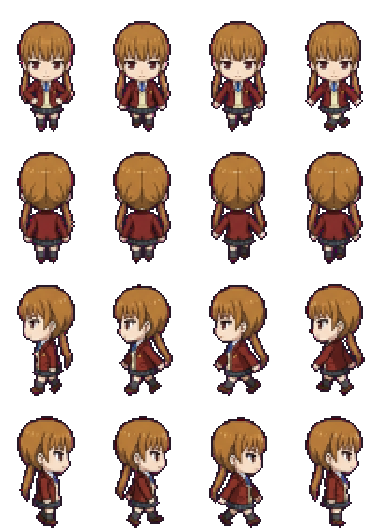
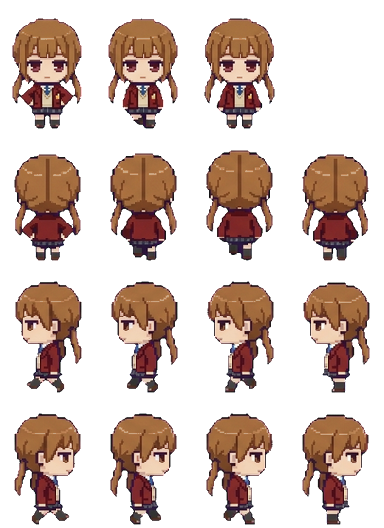
Redraw Mizutani Shizuku in the shared art style
Claude-Session: https://claude.ai/code/session_01KaPsBYLrtbRfMYNG2xeBCK

diff --git a/docs/app.js b/docs/app.js
@@ -75,7 +75,7 @@ function spr(cat, k, col, sc) {
   return `<div class="clip" style="width:${it[2] * sc}px;height:${it[3] * sc}px;POS"><img class="px" src="assets/decor/${cat}.png" alt="" style="width:${S.sw * sc}px;height:${S.sh * sc}px;margin-left:${-col * S.cw * sc}px;margin-top:${-i * S.ch * sc}px"></div>`;
 }
 const icon = (k, sz) => `<span class="itm" style="width:${sz}px;height:${sz}px"><img class="px" src="assets/ui/items.png" alt="" style="width:${IT.length * sz}px;height:${sz}px;margin-left:${-ITM[k].i * sz}px"></span>`;
-const face = (id, w) => { const s = w / 96; return `<img class="px" src="assets/ch/${id}.webp?v=66" alt="" style="position:absolute;width:${384 * s}px;height:${528 * s}px;left:${-(96 * s - w) / 2}px;top:0;max-width:none">`; };
+const face = (id, w) => { const s = w / 96; return `<img class="px" src="assets/ch/${id}.webp?v=67" alt="" style="position:absolute;width:${384 * s}px;height:${528 * s}px;left:${-(96 * s - w) / 2}px;top:0;max-width:none">`; };
 
 // ---------- 저장 ----------
 let fb = null, user = null, S = null, saveT = null;
@@ -143,7 +143,7 @@ function sleepHTML(id, r, dy) {
   const pos = r.a && r.a[0] === 'bed' ? 'left:3%;bottom:20%' : r.b && r.b[0] === 'bed' ? 'right:3%;bottom:20%' : 'left:calc(50% - 44px);bottom:6%';
   const s = 36 / 96;
   return `<div style="position:absolute;width:88px;height:56px;${pos};z-index:${dy ? 4 : 5};${dy ? `transform:translate(12px,${dy}px)` : ''}"><div style="position:absolute;inset:0;filter:brightness(.22)">
-    <div style="position:absolute;left:11px;top:1px;width:36px;height:50px;overflow:hidden;transform:rotate(-90deg)"><img class="px" src="assets/ch/${id}.webp?v=66" alt="" style="width:${384 * s}px;height:${528 * s}px;max-width:none;margin-top:${-132 * s}px"></div>
+    <div style="position:absolute;left:11px;top:1px;width:36px;height:50px;overflow:hidden;transform:rotate(-90deg)"><img class="px" src="assets/ch/${id}.webp?v=67" alt="" style="width:${384 * s}px;height:${528 * s}px;max-width:none;margin-top:${-132 * s}px"></div>
     <div style="position:absolute;left:19px;top:19px;width:67px;height:29px;border:2px solid var(--ink);border-radius:8px 6px 4px 4px;background:#8ccff5;background-image:repeating-linear-gradient(90deg,transparent 0 10px,rgba(255,255,255,.5) 10px 13px)"></div></div>
     ${dy ? '' : '<span class="emo" style="left:8px;top:-22px;color:#5b6bd6">Z z z</span>'}</div>`;
 }
@@ -153,8 +153,8 @@ function roomHTML(id, o, scale) {
     <div class="floor" style="background-color:${PAL[r.fc][1]};background-image:${tileUrl('floor', r.fl)}"></div>
     ${slot('deco', r.dc, 'left:6%;top:6%')}${slot('furn', r.a, 'left:3%;bottom:20%')}${slot('furn', r.b, 'right:3%;bottom:20%')}${slot('prop', r.pr, 'left:28%;bottom:4%;z-index:2')}
     ${id && o.sleeping && g ? sleepHTML(g, r, -16) : ''}${id && o.sleeping ? sleepHTML(id, r) : ''}${id && o.job ? `<div style="position:absolute;left:50%;top:38%;transform:translateX(-50%);z-index:5;background:#fff;border:3px solid var(--ink);border-radius:10px;padding:6px 10px;font-size:11px;text-align:center;line-height:1.5"><img src="assets/ui/ic_job.png" alt="" style="width:18px;vertical-align:-4px"> ${WORK[id] ? WORK[id][1] : esc(JOB_NAME[id]) + ' 알바 중'}${g ? `<br><small>${esc(nameOf(g))}도 같이</small>` : ''}<br><b id="jobleft">${timeLeft(o.job.until)}</b></div>` : ''}
-    ${id ? `<div class="shadow" id="shd" ${o.sleeping || o.job ? 'style="display:none"' : ''}></div><div class="man" id="man" ${o.sleeping || o.job ? 'style="display:none"' : ''}><img class="px" src="assets/ch/${id}.webp?v=66" alt="${esc(nameOf(id))}"></div><span class="emo" id="emo" hidden></span><span class="mumble" id="mum" hidden></span>` : ''}
-    ${g ? `<div class="shadow" id="gshd" ${hideG}></div><div class="man" id="gman" ${hideG}><img class="px" src="assets/ch/${g}.webp?v=66" alt="${esc(nameOf(g))}"></div><span class="emo" id="gemo" hidden></span><span class="mumble gmum" id="gmum" hidden></span>` : ''}
+    ${id ? `<div class="shadow" id="shd" ${o.sleeping || o.job ? 'style="display:none"' : ''}></div><div class="man" id="man" ${o.sleeping || o.job ? 'style="display:none"' : ''}><img class="px" src="assets/ch/${id}.webp?v=67" alt="${esc(nameOf(id))}"></div><span class="emo" id="emo" hidden></span><span class="mumble" id="mum" hidden></span>` : ''}
+    ${g ? `<div class="shadow" id="gshd" ${hideG}></div><div class="man" id="gman" ${hideG}><img class="px" src="assets/ch/${g}.webp?v=67" alt="${esc(nameOf(g))}"></div><span class="emo" id="gemo" hidden></span><span class="mumble gmum" id="gmum" hidden></span>` : ''}
     ${o.sleeping ? `<div class="night"></div><div class="sleepleft">쿨쿨 · 일어나기까지 <b id="sleepleft">${timeLeft(wakeAt(o)).replace(' 남음', '')}</b></div>` : ''}
   </div>`;
 }
@@ -167,7 +167,7 @@ function meterHTML(o) {
 const ic = (act, img, label, pressed) => `<button class="ic" data-act="${act}" ${pressed ? 'aria-pressed="true"' : ''}><img src="assets/ui/ic_${img}.png?v=2" alt="">${label}</button>`;
 
 let dropStyle = null; const cheat = {};
-const APP_V = 139, COUPONS = { NINOGUYA: 3000 };
+const APP_V = 140, COUPONS = { NINOGUYA: 3000 };
 // 쿠폰 입력 정리: 한글 자판 상태로 친 글자(ㅜㅑㅜㅐ혀ㅛㅁ)도 영어 자판 글자로 바꾸고, 대소문자·띄어쓰기·마침표는 무시해요
 const KEY = { ㄱ: 'r', ㄲ: 'R', ㄴ: 's', ㄷ: 'e', ㄸ: 'E', ㄹ: 'f', ㅁ: 'a', ㅂ: 'q', ㅃ: 'Q', ㅅ: 't', ㅆ: 'T', ㅇ: 'd', ㅈ: 'w', ㅉ: 'W', ㅊ: 'c', ㅋ: 'z', ㅌ: 'x', ㅍ: 'v', ㅎ: 'g',
   ㅏ: 'k', ㅐ: 'o', ㅑ: 'i', ㅒ: 'O', ㅓ: 'j', ㅔ: 'p', ㅕ: 'u', ㅖ: 'P', ㅗ: 'h', ㅘ: 'hk', ㅙ: 'ho', ㅚ: 'hl', ㅛ: 'y', ㅜ: 'n', ㅝ: 'nj', ㅞ: 'np', ㅟ: 'nl', ㅠ: 'b', ㅡ: 'm', ㅢ: 'ml', ㅣ: 'l',
@@ -407,7 +407,7 @@ function startTrip(k) {
   if (tg) lines[1] = `${nameOf(tg)}: ${withHim(sub(pick(GLX(tg).trip), o, c.n), tg)}`;
   const n = (FR[id] || [4, 4, 4, 4])[3], el = document.createElement('div'); el.className = 'tripview';
   el.innerHTML = `<div class="tsay"> </div><div class="tstage" style="background-image:url(assets/travel/${k}.png?v=2)"><div class="tplace">${esc(c.n)}</div>
-    <div class="twalker"><img class="px" src="assets/ch/${id}.webp?v=66" alt=""></div>${tg ? `<div class="twalker tgirl"><img class="px" src="assets/ch/${tg}.webp?v=66" alt=""></div>` : ''}<span class="emo tjoy">♪</span></div>
+    <div class="twalker"><img class="px" src="assets/ch/${id}.webp?v=67" alt=""></div>${tg ? `<div class="twalker tgirl"><img class="px" src="assets/ch/${tg}.webp?v=67" alt=""></div>` : ''}<span class="emo tjoy">♪</span></div>
     <div class="tbar"><i></i></div><button class="btn white tskip" data-tskip="1">바로 돌아오기</button>`;
   document.body.appendChild(el);
   const gimg = el.querySelector('.tgirl img'), gn = tg ? (FR[tg] || [4, 4, 4, 4])[3] : 1;
@@ -665,7 +665,7 @@ setInterval(() => { if (S && user) { tickTime(); save(); } }, 60000);
     if (nv > APP_V && !location.search.includes('u=' + nv)) { location.replace(location.pathname + '?u=' + nv); return; }
   } catch { }
   app.innerHTML = '<div class="start"><div class="egg"><div class="scr"></div></div><div class="note">불러오는 중....</div></div>';
-  const [c, t, f, it, mu, ct, tv, gl, sts] = await Promise.all(['data/chars.json', 'data/talk.json', 'data/frames.json', 'data/items.json', 'data/mumble.json', 'data/countries.json', 'data/travel.json', 'data/girls.json', 'data/sets.json'].map(u => fetch(u + '?v=139').then(r => r.ok ? r.json() : {})));
+  const [c, t, f, it, mu, ct, tv, gl, sts] = await Promise.all(['data/chars.json', 'data/talk.json', 'data/frames.json', 'data/items.json', 'data/mumble.json', 'data/countries.json', 'data/travel.json', 'data/girls.json', 'data/sets.json'].map(u => fetch(u + '?v=140').then(r => r.ok ? r.json() : {})));
   CH = c; CHM = Object.fromEntries(c.map(x => [x.id, x])); TALK = t; FR = f; IT = it; ITM = Object.fromEntries(it.map(x => [x.k, x])); MUM = mu; CTRY = ct; TRV = tv; GL = Array.isArray(gl) ? gl : []; SETS = Array.isArray(sts) ? sts : []; GLM = Object.fromEntries(GL.map(x => [x.id, x]));
   try { await initFirebase(); } catch (e) { console.warn('Firebase 연결 실패, 기기 저장으로', e); fb = null; }
   if (fb) {

diff --git a/docs/index.html b/docs/index.html
@@ -18,6 +18,6 @@
 <main id="app" aria-live="polite"></main>
 <div id="toast" role="status" hidden></div>
 <script src="firebase-config.js?v=3"></script>
-<script type="module" src="app.js?v=139"></script>
+<script type="module" src="app.js?v=140"></script>
 </body>
 </html>
